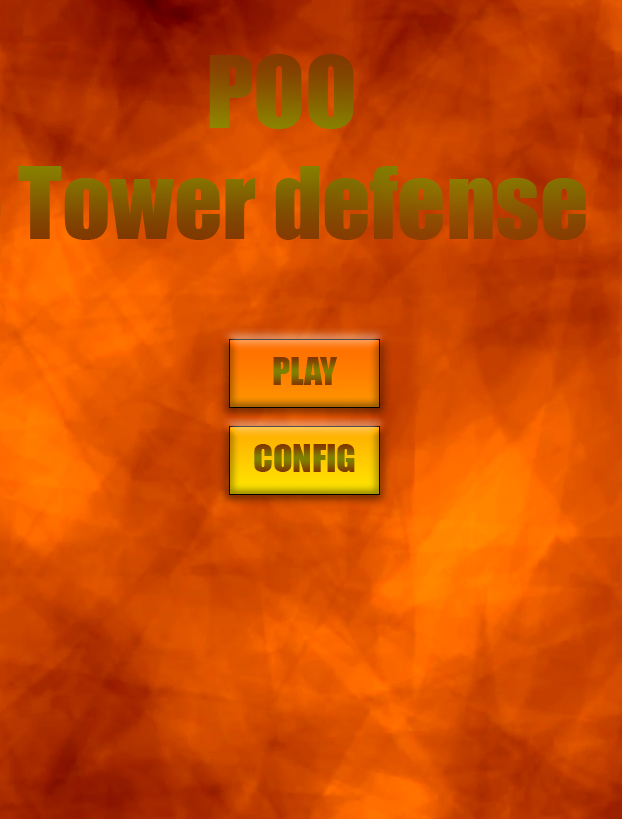
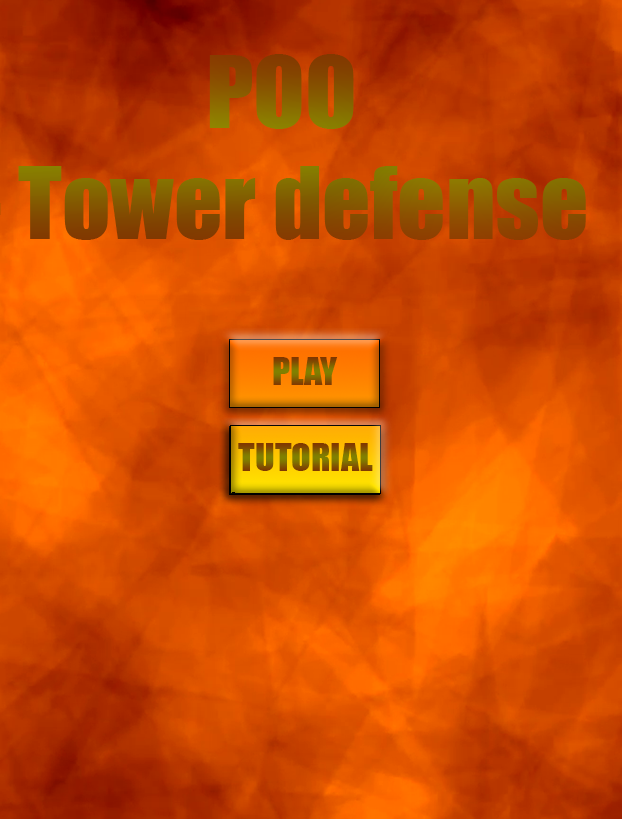
Atualização tutorial

Changed region(s): [[0.336, 0.5189, 0.6415, 0.6105]]

diff --git a/core/src/com/mygdx/game/Screens/GameScreen.java b/core/src/com/mygdx/game/Screens/GameScreen.java
@@ -37,6 +37,7 @@ public class GameScreen implements Screen, InputProcessor {
     private Array<InimigoBasico> enemies;
     private long lastDropTime;
     private static boolean paused;
+    private static boolean tutorial;
     private long instantPaused;
     private long timePausedDelay;
     public static boolean fechouMercado;
@@ -45,8 +46,10 @@ public class GameScreen implements Screen, InputProcessor {
     private int ondasI;
     private int ondasJ;
     private boolean trocouOnda;
-
-    public GameScreen(final Renderizador game, Mapa mapa) {
+    private Texture tutorialImg;
+    private Texture setImg;
+    private int tutCont;
+    public GameScreen(final Renderizador game, Mapa mapa, boolean tut) {
         this.game = game;
         this.mapa = mapa;
         float w = Gdx.graphics.getWidth();
@@ -64,7 +67,13 @@ public class GameScreen implements Screen, InputProcessor {
         fonte = new BitmapFont();
         fonte.setColor(0, 0, 0, 1);
         ouro = 35; //Quantidade de ouro inicial]
-
+        tutorialImg = new Texture("tutorial1.png");
+        setImg = new Texture("Seta.png");
+        tutCont = 0;
+        if(tut){
+            paused = true;
+            tutorial = true;
+        }
         //Organiza as ondas de inimigos
         ondasI = 0;
         ondasJ = 0;
@@ -146,6 +155,7 @@ public class GameScreen implements Screen, InputProcessor {
                 enemies.add(enemy);
                 lastDropTime = TimeUtils.nanoTime();
                 mapa.getSalas(0, 4).adicionaInimigo(enemy);
+                tutorial = false;
             }
         }
     }
@@ -201,17 +211,63 @@ public class GameScreen implements Screen, InputProcessor {
         //Administra o estado do jogo (Pause)
         if(paused) {
             batch.draw(pauseImg, 512, 512);
-            if(Gdx.input.isKeyJustPressed(Input.Keys.P) || fechouMercado) {
-                timePausedDelay = TimeUtils.nanoTime() - instantPaused;
-                paused = false;
-                fechouMercado = false;
+            if(!tutorial) {
+                if (Gdx.input.isKeyJustPressed(Input.Keys.P) || fechouMercado) {
+                    timePausedDelay = TimeUtils.nanoTime() - instantPaused;
+                    paused = false;
+                    fechouMercado = false;
+                }
             }
-        } else {
+            else{
+                Rectangle mago = ((RectangleMapObject) tiledMap.getLayers().get("Tutorial").getObjects().get("mago")).getRectangle();
+                Rectangle seta = ((RectangleMapObject) tiledMap.getLayers().get("Tutorial").getObjects().get("seta")).getRectangle();
+                Rectangle casa = ((RectangleMapObject) tiledMap.getLayers().get("objetos").getObjects().get("11")).getRectangle();
+                if(tutCont < 4) {
+                    batch.draw(tutorialImg, mago.x, mago.y);
+                    if (Gdx.input.justTouched() && tutCont == 0) {
+                        tutorialImg = new Texture("tutorial2.png");
+                        tutCont = 1;
+                    } else if (Gdx.input.justTouched() && tutCont == 1) {
+                        tutorialImg = new Texture("tutorial3.png");
+                        tutCont = 2;
+                    } else if (Gdx.input.justTouched() && tutCont == 2) {
+                        tutorialImg = new Texture("tutorial4.png");
+                        tutCont = 3;
+                    } else if(Gdx.input.justTouched() && tutCont == 3){
+                        tutCont = 4;
+                    }
+                }
+                if( tutCont == 4){
+                    tutorialImg = new Texture("Seta.png");
+                    batch.draw(tutorialImg, seta.x, seta.y);
+                }
+                if(tutCont == 4 && Gdx.input.justTouched()){
+                    touchPosition.set(Gdx.input.getX(), Gdx.input.getY(), 0);
+                    this.camera.unproject(touchPosition);
+                    if (casa.contains(touchPosition.x, touchPosition.y)) {
+                        touchPosition.set(0, 0, 0);
+                        tutCont = 5;
+                        game.setScreen(new MercadoScreen(game, mapa, 1, 1, true));
+                    }
+                }
+                else if(tutCont == 5 ){
+                    tutorialImg = new Texture("tutorial5.png");
+                    batch.draw(tutorialImg, mago.x, mago.y);
+                    if(Gdx.input.justTouched()){
+                        tutCont = 6;
+                    }
+                }
+                if( tutCont == 6){
+                    paused = false;
+                }
+            }
+        }
+        else {
             generalUpdate();
         }
 
         //Retoma o spawn de inimigos quando o último inimigo da última onda morre
-        if (enemies.isEmpty()) {
+        if (enemies.isEmpty() && !tutorial) {
             ondasI++;
             trocouOnda = false;
         }
@@ -249,7 +305,7 @@ public class GameScreen implements Screen, InputProcessor {
                         touchPosition.set(0, 0, 0);
                         instantPaused = TimeUtils.nanoTime();
                         paused = true;
-                        game.setScreen(new MercadoScreen(game, mapa, i, j));
+                        game.setScreen(new MercadoScreen(game, mapa, i, j, false));
 
                     }
                 }

diff --git a/core/src/com/mygdx/game/Screens/MainMenuScreen.java b/core/src/com/mygdx/game/Screens/MainMenuScreen.java
@@ -22,7 +22,8 @@ public class MainMenuScreen implements Screen {
         private TiledMapRenderer tiledMapRenderer;
         private Vector3 touchPosition;
         private static GameScreen telaJogo;
-
+        private Rectangle botaoPlay;
+        private Rectangle botaoTut;
         public MainMenuScreen(final Renderizador game, Mapa mapa){
                 this.game = game;
                 this.mapa = mapa;
@@ -36,6 +37,9 @@ public class MainMenuScreen implements Screen {
                 tiledMap = new TmxMapLoader().load("Menu.tmx");
                 tiledMapRenderer = new OrthogonalTiledMapRenderer(tiledMap);
                 touchPosition = new Vector3();
+                botaoPlay = ((RectangleMapObject) tiledMap.getLayers().get("Botoes").getObjects().get("Play")).getRectangle();
+                botaoTut = ((RectangleMapObject) tiledMap.getLayers().get("Botoes").getObjects().get("Tutorial")).getRectangle();
+
         }
 
         public static GameScreen getTelaJogo() {
@@ -53,18 +57,19 @@ public class MainMenuScreen implements Screen {
                 tiledMapRenderer.render();
 
                 //Verifica se os botões são clicados e passa para a GameScreen
-                for (MapObject object : tiledMap.getLayers().get("Botoes").getObjects()) {
-                        Rectangle rec = ((RectangleMapObject) object).getRectangle();
-                        touchPosition = new Vector3();
+
                         if(Gdx.input.justTouched()){
                                 touchPosition.set(Gdx.input.getX(), Gdx.input.getY(), 0);
                                 this.camera.unproject(touchPosition);
                         }
-                        if(rec.contains(touchPosition.x, touchPosition.y)) {
-                                telaJogo = new GameScreen(game, mapa);
+                        if(botaoPlay.contains(touchPosition.x, touchPosition.y)) {
+                                telaJogo = new GameScreen(game, mapa, false);
                                 game.setScreen(telaJogo);
                         }
-                }
+                        if(botaoTut.contains(touchPosition.x,touchPosition.y)){
+                                telaJogo = new GameScreen(game, mapa, true);
+                                game.setScreen(telaJogo);
+                        }
         }
 
         @Override

diff --git a/core/src/com/mygdx/game/Screens/MercadoScreen.java b/core/src/com/mygdx/game/Screens/MercadoScreen.java
@@ -31,14 +31,15 @@ public class MercadoScreen implements Screen {
     private Texture imgComprar;
     int x;
     int y;
-    Rectangle botao1, botao2, botao3, botao4, sairButton;
-
-    public MercadoScreen(final Renderizador game, Mapa mapa, int x, int y) {
+    Rectangle botao1, botao2, botao3, botao4, sairButton, tutorialRec;
+    private boolean tut;
+    private Texture seta;
+    public MercadoScreen(final Renderizador game, Mapa mapa, int x, int y, boolean tutorial) {
         this.game = game;
         this.mapa = mapa;
         this.x = x;
         this.y = y;
-
+        tut = tutorial;
         //Inicializa mapa e câmera
         float w = Gdx.graphics.getWidth();
         float h = Gdx.graphics.getHeight();
@@ -48,13 +49,15 @@ public class MercadoScreen implements Screen {
         camera.setToOrtho(false,w,h);
         camera.update();
         tiledMap = new TmxMapLoader().load("Mercado.tmx");
-
+        seta = new Texture("Seta.png");
         //Inicializa botões do menu mercado
         botao1 = ((RectangleMapObject) tiledMap.getLayers().get("botoes").getObjects().get("botao1")).getRectangle();
         botao2 = ((RectangleMapObject) tiledMap.getLayers().get("botoes").getObjects().get("botao2")).getRectangle();
         botao3 = ((RectangleMapObject) tiledMap.getLayers().get("botoes").getObjects().get("botao3")).getRectangle();
         botao4 = ((RectangleMapObject) tiledMap.getLayers().get("botoes").getObjects().get("botao4")).getRectangle();
         sairButton = ((RectangleMapObject) tiledMap.getLayers().get("sair").getObjects().get("sair")).getRectangle();
+        tutorialRec = ((RectangleMapObject) tiledMap.getLayers().get("Tutorial").getObjects().get("tutorial")).getRectangle();
+
         tiledMapRenderer = new OrthogonalTiledMapRenderer(tiledMap);
         batch = new SpriteBatch();
     }
@@ -81,7 +84,9 @@ public class MercadoScreen implements Screen {
         game.batch.setProjectionMatrix(camera.combined);
         batch.setProjectionMatrix(camera.combined);
         batch.begin();
-
+        if(tut){
+            batch.draw(seta, tutorialRec.x,tutorialRec.y);
+        }
         //Renderiza os botões de comprar
         for (MapObject object : tiledMap.getLayers().get("botoes").getObjects()) {
             Rectangle rec1 = ((RectangleMapObject) object).getRectangle();
